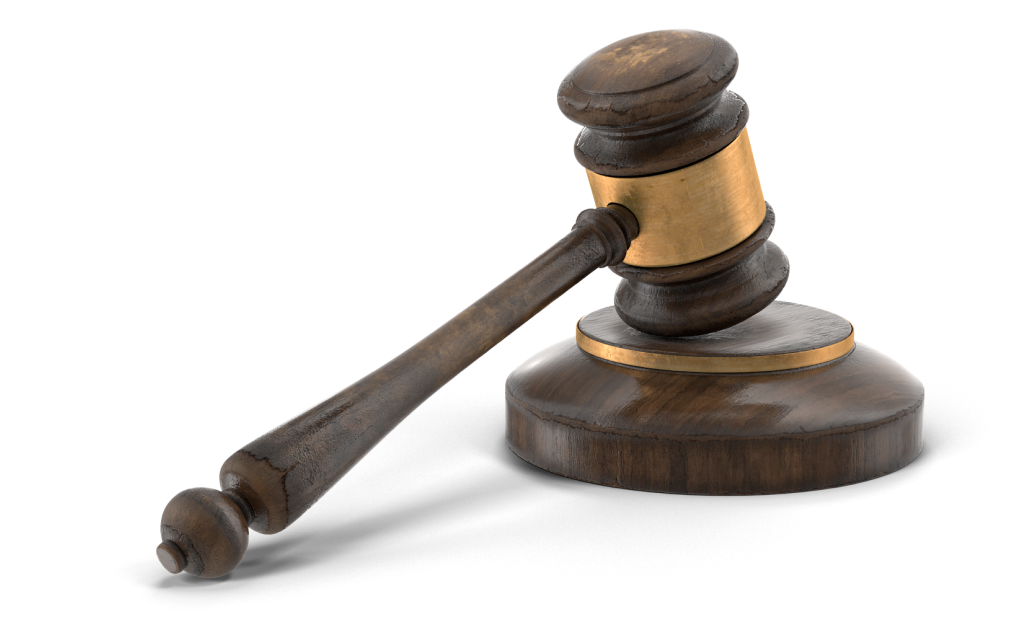
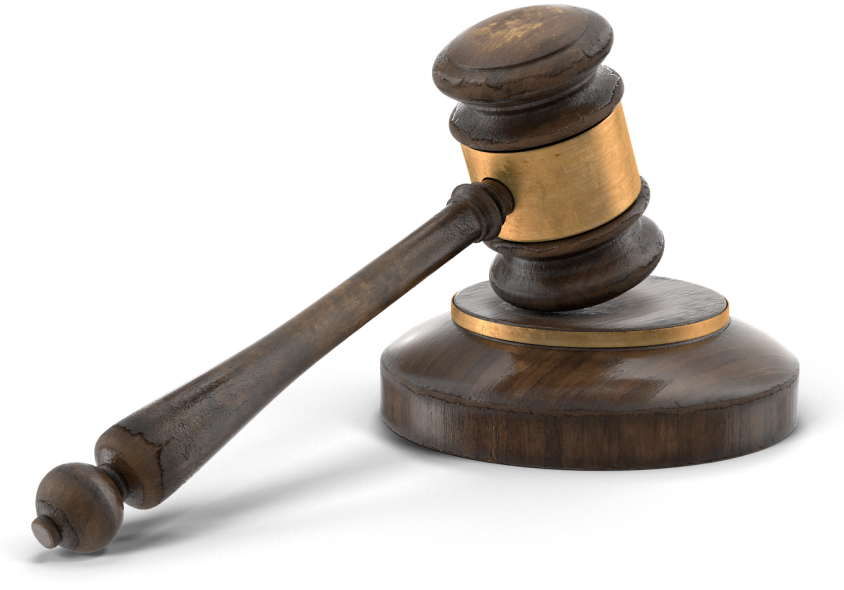
refactor: Make adjustments to CardTopPage component to fix responsiveness issues

Changed region(s): [[0.0308, 0.0, 0.9858, 0.9763], [0.7085, 0.6407, 0.8009, 0.7017], [0.6469, 0.7932, 0.7701, 0.8237]]

diff --git a/src/_components/CardTopPage/index.tsx b/src/_components/CardTopPage/index.tsx
@@ -9,51 +9,92 @@ interface CardTopPageProps {
   title: string
   description: string
   image: StaticImageData
-  height: string
   scrollTo?: string
-  customClassImage?: string
+  imagePosition?:
+    | 'topLeft'
+    | 'topRight'
+    | 'bottomLeft'
+    | 'bottomRight'
+    | 'center'
+    | 'centerLeft'
+    | 'centerRight'
+    | 'centerTop'
+    | 'centerBottom'
+  imageCustomClass?: string
 }
 
 function CardTopPage({
   title,
   description,
   image,
-  height,
   scrollTo,
+  imagePosition = 'center',
+  imageCustomClass,
 }: CardTopPageProps) {
+  const setImagePosition = {
+    topLeft: 'left-0 top-0 justify-start items-start',
+    topRight: '-right-4 top-0 justify-end items-start',
+    bottomLeft: 'left-0 bottom-0 justify-start items-end',
+    bottomRight: '-right-4 bottom-0 justify-end items-end',
+    center:
+      'left-1/2 top-1/2 transform -translate-x-1/2 -translate-y-1/2 justify-center items-center',
+    centerLeft:
+      'left-0 top-1/2 transform -translate-y-1/2 justify-start items-center',
+    centerRight:
+      '-right-4 top-1/2 transform -translate-y-1/2 justify-end items-center',
+    centerTop:
+      'left-1/2 top-0 transform -translate-x-1/2 justify-center items-start',
+    centerBottom:
+      'left-1/2 bottom-0 transform -translate-x-1/2 justify-center items-end',
+  }
+
   return (
-    <div className="container mt-5 lg:mt-[5.64rem]">
+    <div className="container relative mt-5 lg:mt-[5.64rem]">
       <div
         className={cn(
           `bg-custom-judgment-guidelines relative mx-auto mb-10 max-w-[100.0625rem] rounded-[1.375rem]`,
-          height,
         )}
       >
         <div className="absolute -left-[2px] top-[13rem] h-[2rem] w-[5px] rounded-full bg-secondary"></div>
-        <div className="flex items-stretch justify-center">
-          <div className="w-1/2">
-            <div className="relative flex items-center gap-[0.56rem] px-4 py-5 before:absolute before:inset-x-0 before:bottom-0 before:z-0 before:w-[calc(200%)] before:border-b-[0.125rem] before:border-secondary lg:px-[2.25rem] lg:py-[2.12rem]">
+        <div className="flex flex-col items-stretch justify-center lg:flex-row">
+          <div className="w-full pb-12 lg:w-1/2">
+            <div className="relative flex items-center gap-[0.56rem] px-4 py-5 before:absolute before:inset-x-0 before:bottom-0 before:z-0 before:w-full before:border-b-[0.125rem] before:border-secondary lg:py-[2.12rem] lg:before:w-[calc(200%)] xl:px-[2.25rem]">
               <Scale />
-              <h1 className="text-[0.85rem] font-bold lg:text-[1.25rem]">
+              <h1 className="font-bold ~text-[0.85rem]/[1.25rem]">
                 Superior Tribunal de Justiça <br className="lg:hidden" />{' '}
                 Desportiva do Futebol
               </h1>
             </div>
-            <div className="max-w-[44.125rem] px-[1.5rem] lg:mt-0 lg:px-0 lg:pl-[2.25rem] lg:pt-[5.5rem]">
-              <h1 className="text-[2.2rem] font-bold leading-[2.1875rem] tracking-[0.03rem] lg:text-[3rem] lg:leading-normal">
+            <div className="mt-2 flex w-full items-center justify-center lg:hidden">
+              <Image
+                src={image}
+                alt=""
+                className="relative max-h-[15rem] w-auto object-contain"
+              />
+            </div>
+            <div className="max-w-[44.125rem] px-[1.5rem] ~mt-6/0 lg:mt-0 lg:px-0 lg:pl-[2.25rem] lg:pt-[5.5rem]">
+              <h1 className="font-bold tracking-[0.03rem] ~text-[2.25rem]/[3rem] ~leading-[2.1875rem]/[2.5rem]">
                 {title}
               </h1>
-              <h2 className="mt-[0.81rem] text-[0.75rem] leading-[1.3125rem] lg:text-base lg:leading-[1.6875rem]">
+              <h2 className="mt-[0.81rem] ~text-[0.75rem]/[1rem] ~leading-[1.3125rem]/[1.6875rem]">
                 {description}
               </h2>
             </div>
           </div>
-          <div className="flex w-1/2 items-end justify-end">
-            <Image
-              src={image}
-              alt=""
-              className="relative z-0 w-[120%] max-w-[unset]"
-            />
+          <div className={cn('relative flex w-full lg:w-1/2')}>
+            <div
+              className={cn(
+                'absolute hidden h-[calc(100%+8rem)] w-[calc(100%+1rem)] lg:flex',
+                setImagePosition[imagePosition],
+                imageCustomClass,
+              )}
+            >
+              <Image
+                src={image}
+                alt=""
+                className="relative z-0 h-full w-auto object-contain"
+              />
+            </div>
           </div>
         </div>
 

diff --git a/src/app/leis-normas/legislacao/page.tsx b/src/app/leis-normas/legislacao/page.tsx
@@ -2,7 +2,7 @@
 import React, { useState } from 'react'
 
 import CardTopPage from '@/_components/CardTopPage'
-import BalancaJustica from '/public/images/balanca-justica.webp'
+import BalancaJustica from '/public/images/balanca-justica.png'
 import CardLegislacao from '@/_components/CardLegislacao'
 import ScaleAttorneys from '@/_components/ScaleAttorneys'
 import BgEditais from '/public/images/bg-card-editais.svg'
@@ -168,8 +168,8 @@ function Legislacao() {
         title="Legislação STJD"
         description="A parte de legislação do STJD define e interpreta as normas do esporte no Brasil, focando na justiça e integridade das competições. Baseada no CBJD, essa área regula e aplica punições a infrações esportivas, promovendo julgamentos imparciais e com critérios legais."
         image={BalancaJustica}
-        height="lg:h-[28.875rem] lg:pb-0 pb-[2.25rem]"
-        customClassImage="!-top-28 ml-10 lg:ml-0"
+        imagePosition="centerRight"
+        imageCustomClass="h-[calc(100%+12rem)]"
       />
       <div className="container">
         <div className="mx-auto max-w-[100.0625rem] rounded-[1.375rem] bg-[#E1E1E1] pb-[1.5rem] pt-[1.44rem]">

diff --git a/src/_components/TeamGrid/index.tsx b/src/_components/TeamGrid/index.tsx
@@ -132,7 +132,7 @@ function TeamGrid({
         <div
           key={team.title}
           className={cn(
-            'relative pb-20 pt-10 after:absolute after:-left-4 after:bottom-0 after:right-0 after:h-[0.125rem] after:w-screen after:bg-border',
+            'relative pb-20 pt-10 after:absolute after:-left-4 after:bottom-0 after:right-0 after:h-[0.125rem] after:w-[calc(100%+2rem)] after:bg-border',
             hideDividers && 'after:hidden',
           )}
         >
@@ -157,7 +157,7 @@ function TeamGrid({
           {team.groups?.map((group) => (
             <div
               key={group.title}
-              className="relative pt-10 after:absolute after:-left-4 after:bottom-0 after:right-0 after:h-[0.125rem] after:w-screen after:bg-border after:last:h-0 [&:not(:last-child)]:pb-20"
+              className="relative pt-10 after:absolute after:-left-4 after:bottom-0 after:right-0 after:h-[0.125rem] after:w-[calc(100%+2rem)] after:bg-border after:last:h-0 [&:not(:last-child)]:pb-20"
             >
               <div className="container">
                 <h3 className="mb-7 mt-[0.81rem] text-xl font-semibold leading-[1.23775rem] text-[#000]">

diff --git a/src/app/processos/editais/editais-template.tsx b/src/app/processos/editais/editais-template.tsx
@@ -1,7 +1,7 @@
 'use client'
 import CardTopPage from '@/_components/CardTopPage'
 import React, { useEffect, useMemo, useState } from 'react'
-import Pastas from '/public/images/pastas.webp'
+import Pastas from '/public/images/pastas.png'
 import { Search, X } from 'lucide-react'
 import {
   Select,
@@ -65,8 +65,7 @@ function EditaisTemplate({ filters, editais }: Props) {
         title="Editais STJD"
         description="Os editais do STJD são avisos oficiais que informam sobre decisões, convocações e processos esportivos. Eles trazem atualizações sobre julgamentos, suspensões e penalidades para clubes e atletas, garantindo transparência e mantendo todos informados das regras e decisões recentes no esporte brasileiro."
         image={Pastas}
-        height="lg:h-[28.875rem] lg:pb-0 pb-10"
-        customClassImage="lg:-top-80 -mt-14 lg:mt-0"
+        imagePosition="centerRight"
       />
       <div id="pageFilters" className="container mt-[1.75rem]">
         <div className="mx-auto max-w-[100.0625rem]">

diff --git a/src/app/jurisprudencia/sumulas/sumulas-template.tsx b/src/app/jurisprudencia/sumulas/sumulas-template.tsx
@@ -59,8 +59,7 @@ function SumulasTemplate({ filters, docs }: Props) {
         title="Súmulas"
         description="As súmulas do STJD (Superior Tribunal de Justiça Desportiva) são entendimentos ou orientações consolidadas que o tribunal adota para casos específicos no âmbito desportivo, especialmente no futebol. Elas servem como uma espécie de jurisprudência, estabelecendo precedentes que orientam futuras decisões e garantindo maior uniformidade no julgamento de infrações."
         image={Pastas}
-        height="lg:h-[28.875rem] lg:pb-0 pb-[3.5rem]"
-        customClassImage="-top-3"
+        imagePosition="topRight"
       />
       <div id="pageFilters" className="container mt-[1.75rem]">
         <div className="mx-auto max-w-[100.0625rem]">

diff --git a/src/app/leis-normas/resolucoes/page.tsx b/src/app/leis-normas/resolucoes/page.tsx
@@ -202,8 +202,8 @@ function Resolucoes() {
         title="Resoluções STJD"
         description="A parte de legislação do STJD define e interpreta as normas do esporte no Brasil, focando na justiça e integridade das competições. Baseada no CBJD, essa área regula e aplica punições a infrações esportivas, promovendo julgamentos imparciais e com critérios legais."
         image={BalancaJustica}
-        height="lg:h-[28.875rem] lg:pb-0 pb-[2.25rem]"
-        customClassImage="!-top-72 -right-44"
+        imagePosition="topRight"
+        imageCustomClass="h-[calc(100%+12rem)] -top-8"
       />
       <div className="container">
         <div className="mx-auto max-w-[100.0625rem] rounded-[1.375rem] bg-[#E1E1E1] pb-[1.5rem] pt-[1.44rem]">

diff --git a/src/app/jurisprudencia/jurisprudencia-stjd/page.tsx b/src/app/jurisprudencia/jurisprudencia-stjd/page.tsx
@@ -34,8 +34,8 @@ function JurisprudenciaStj() {
           title="Jurisprudência"
           description="A jurisprudência do Superior Tribunal de Justiça Desportiva (STJD) assegura uniformidade nas decisões relacionadas a infrações, regulamentos e disputas esportivas. Baseada em casos anteriores, ela promove ética, fair play e segurança jurídica, orientando atletas, clubes e dirigentes no cumprimento das regras do desporto nacional."
           image={Estatua}
-          height="lg:h-[28.875rem] lg:pb-0 pb-[3.5rem]"
-          customClassImage="!-top-28 right-10"
+          imageCustomClass="h-[calc(100%+7rem)]"
+          imagePosition="centerRight"
         />
         <div className="container">
           {!openAdvanced ? (

diff --git a/src/app/processos/processos/page.tsx b/src/app/processos/processos/page.tsx
@@ -30,8 +30,8 @@ function Processos() {
             title="Processos STJD"
             description="Os processos do STJD são ações jurídicas para resolver infrações e disputas no esporte, especialmente no futebol, baseadas no Código Brasileiro de Justiça Desportiva (CBJD) e regulamentos da CBF, com atuação independente."
             image={Estatua}
-            height="lg:h-[28.875rem] lg:pb-0 pb-[3.5rem]"
-            customClassImage="lg:-top-32 lg:mt-0 -mt-5 right-10 lg:w-auto w-[11.0625rem] lg:mx-0 mx-auto"
+            imagePosition="centerRight"
+            imageCustomClass="h-[calc(100%+12rem)] mr-12"
           />
           <div className="container">
             <div className="mx-auto max-w-[100rem]">

diff --git a/src/app/institucional/historico/page.tsx b/src/app/institucional/historico/page.tsx
@@ -54,9 +54,9 @@ function Historico() {
           title="Auditores"
           description="O Superior Tribunal de Justiça Desportiva do Futebol (STJD) é o órgão autônomo, previsto no Código Brasileiro de Justiça Desportiva, custeado pela Confederação Brasileira de Futebol (CBF), que discute as legalidades do futebol no Brasil e julga os acontecimentos do esporte."
           image={Clock}
-          height="lg:h-[28.875rem]"
           scrollTo="#members"
-          customClassImage="-right-20 top-[-8rem] max-w-[45rem]"
+          imagePosition="centerRight"
+          imageCustomClass="h-[calc(100%+4rem)]"
         />
         <hr className="mb-0 mt-20 h-[0.125rem] w-full bg-border" />
       </section>

diff --git a/src/app/jurisprudencia/acordaos-decisoes/acordaos-decisoes-template.tsx b/src/app/jurisprudencia/acordaos-decisoes/acordaos-decisoes-template.tsx
@@ -59,8 +59,7 @@ function AcordoesDecisoesTemplate({ filters, docs }: Props) {
         title="Acordãos e Decisões"
         description="Um acórdão é a decisão colegiada emitida por um tribunal, formada pela análise conjunta de um grupo de magistrados (juízes ou desembargadores). Ele representa o resultado do julgamento de um processo e contém o entendimento majoritário do tribunal sobre as questões debatidas."
         image={Pastas}
-        height="lg:h-[28.875rem] lg:pb-0 pb-[3.5rem]"
-        customClassImage="top-10"
+        imagePosition="topRight"
       />
       <div id="pageFilters" className="container mt-[1.75rem]">
         <div className="mx-auto max-w-[100.0625rem]">

diff --git a/src/app/institucional/auditores/page.tsx b/src/app/institucional/auditores/page.tsx
@@ -80,9 +80,8 @@ async function Auditores() {
           title="Auditores"
           description="O Superior Tribunal de Justiça Desportiva do Futebol (STJD) é o órgão autônomo, previsto no Código Brasileiro de Justiça Desportiva, custeado pela Confederação Brasileira de Futebol (CBF), que discute as legalidades do futebol no Brasil e julga os acontecimentos do esporte."
           image={WoodenGavel}
-          height="lg:h-[28.875rem]"
           scrollTo="#members"
-          customClassImage="max-h-[100%]"
+          imagePosition="topRight"
         />
         <hr className="mb-0 mt-20 h-[0.125rem] w-full bg-border" />
       </section>

diff --git a/src/app/institucional/procuradores/page.tsx b/src/app/institucional/procuradores/page.tsx
@@ -39,8 +39,8 @@ async function Procuradores() {
           title="Procuradores"
           description="O Superior Tribunal de Justiça Desportiva do Futebol (STJD) é o órgão autônomo, previsto no Código Brasileiro de Justiça Desportiva, custeado pela Confederação Brasileira de Futebol (CBF), que discute as legalidades do futebol no Brasil e julga os acontecimentos do esporte."
           image={WoodenGavel}
-          height="lg:h-[28.875rem]"
           scrollTo="#members"
+          imagePosition="topRight"
         />
         <hr className="mb-0 mt-20 h-[0.125rem] w-full bg-border" />
       </section>
